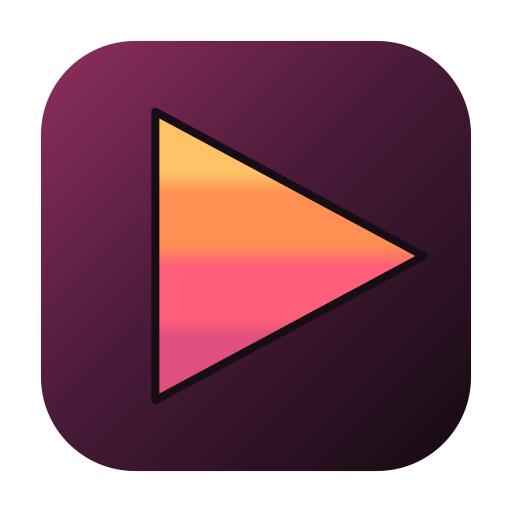
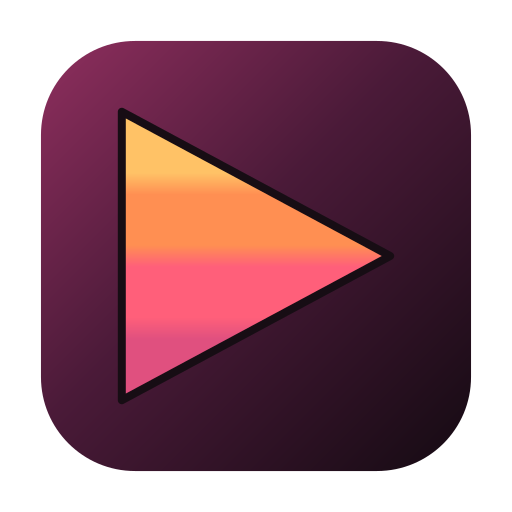
Centre the mark in its tile
The triangle sat eight pixels right of the middle of the tile. It was given
that as an optical correction, since a triangle carries its weight down the
flat side and looks as though it is sliding left when its box is centred, and
at the size an icon is really seen the correction reads as a mistake instead.

The flat side now sits half the shape's width from the middle, so the middle
of the triangle and the middle of the tile are the same point, across and
down. The mark in the video carries the same three corners, so the two agree.

Changed region(s): [[0.2188, 0.1875, 0.8438, 0.8125]]

diff --git a/tools/make_icon.py b/tools/make_icon.py
@@ -71,9 +71,12 @@ OUTLINE_WIDTH = 2.0
 MARK = 0.78
 MARK_HEIGHT = 0.86
 MARK_WIDTH = 0.80
-# A triangle centred on its bounding box looks as though it is sliding left,
-# because its weight is all down the flat side. This is that correction.
-MARK_NUDGE = 0.30
+# Where the triangle's flat side sits, as a share of its own size. Half its
+# width puts the middle of the shape exactly in the middle of the tile, which
+# is what this is. A smaller number pushes it right, which is the optical
+# correction a triangle is usually given for looking left heavy, and at the
+# size an icon is actually seen that correction reads as a mistake.
+MARK_NUDGE = 0.40
 
 
 def corners() -> list[tuple[float, float]]:
